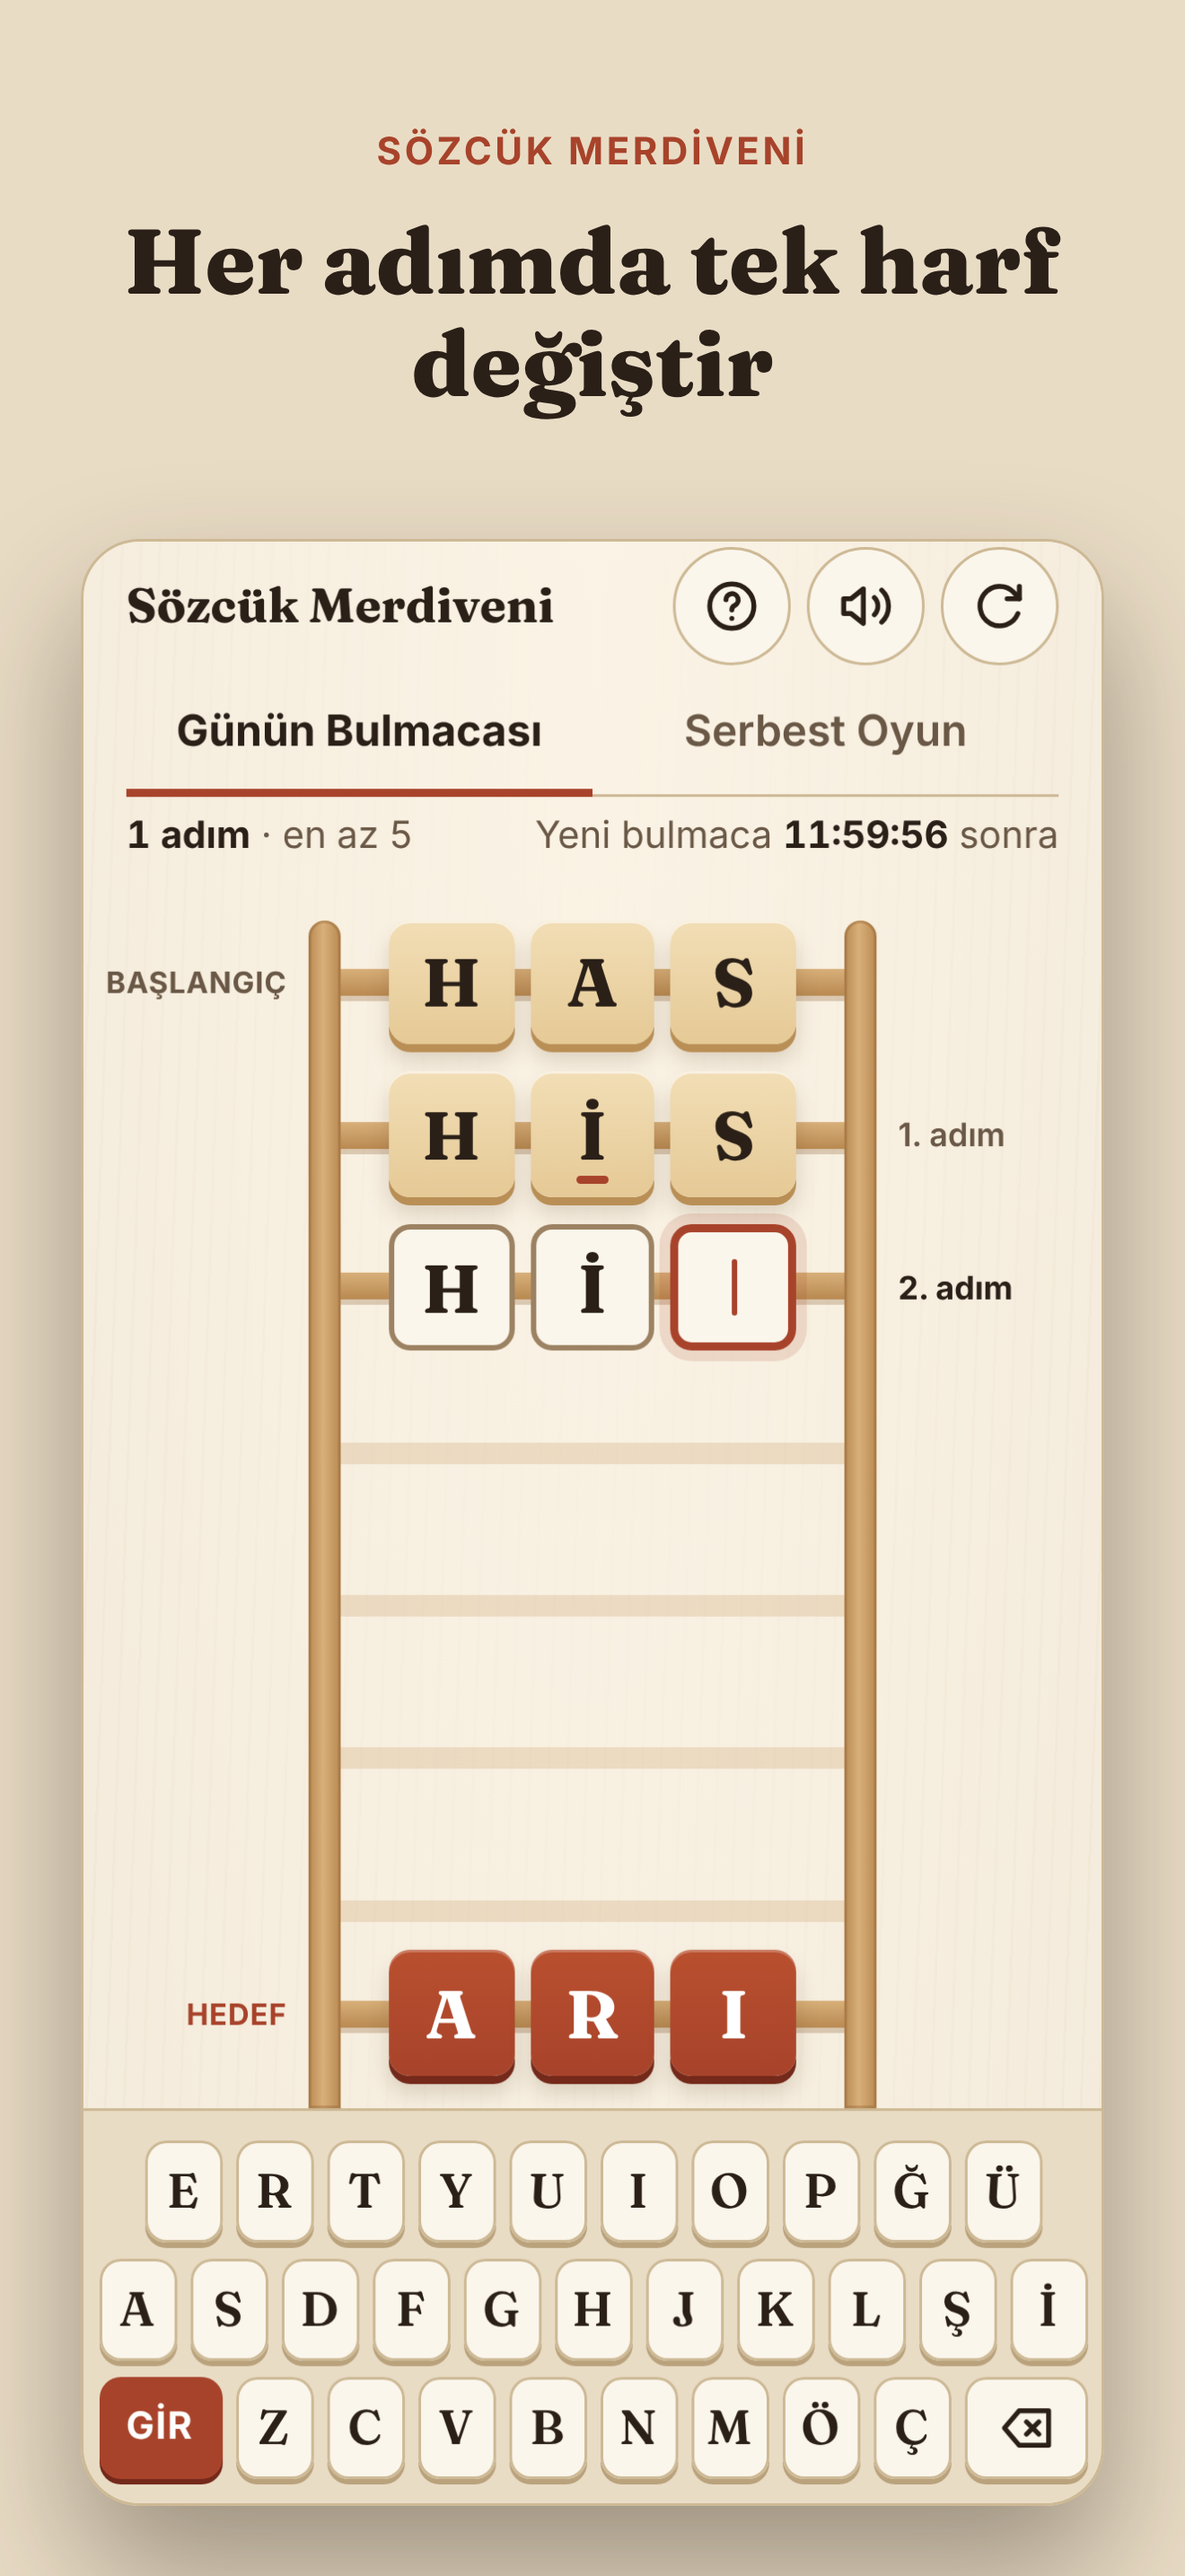
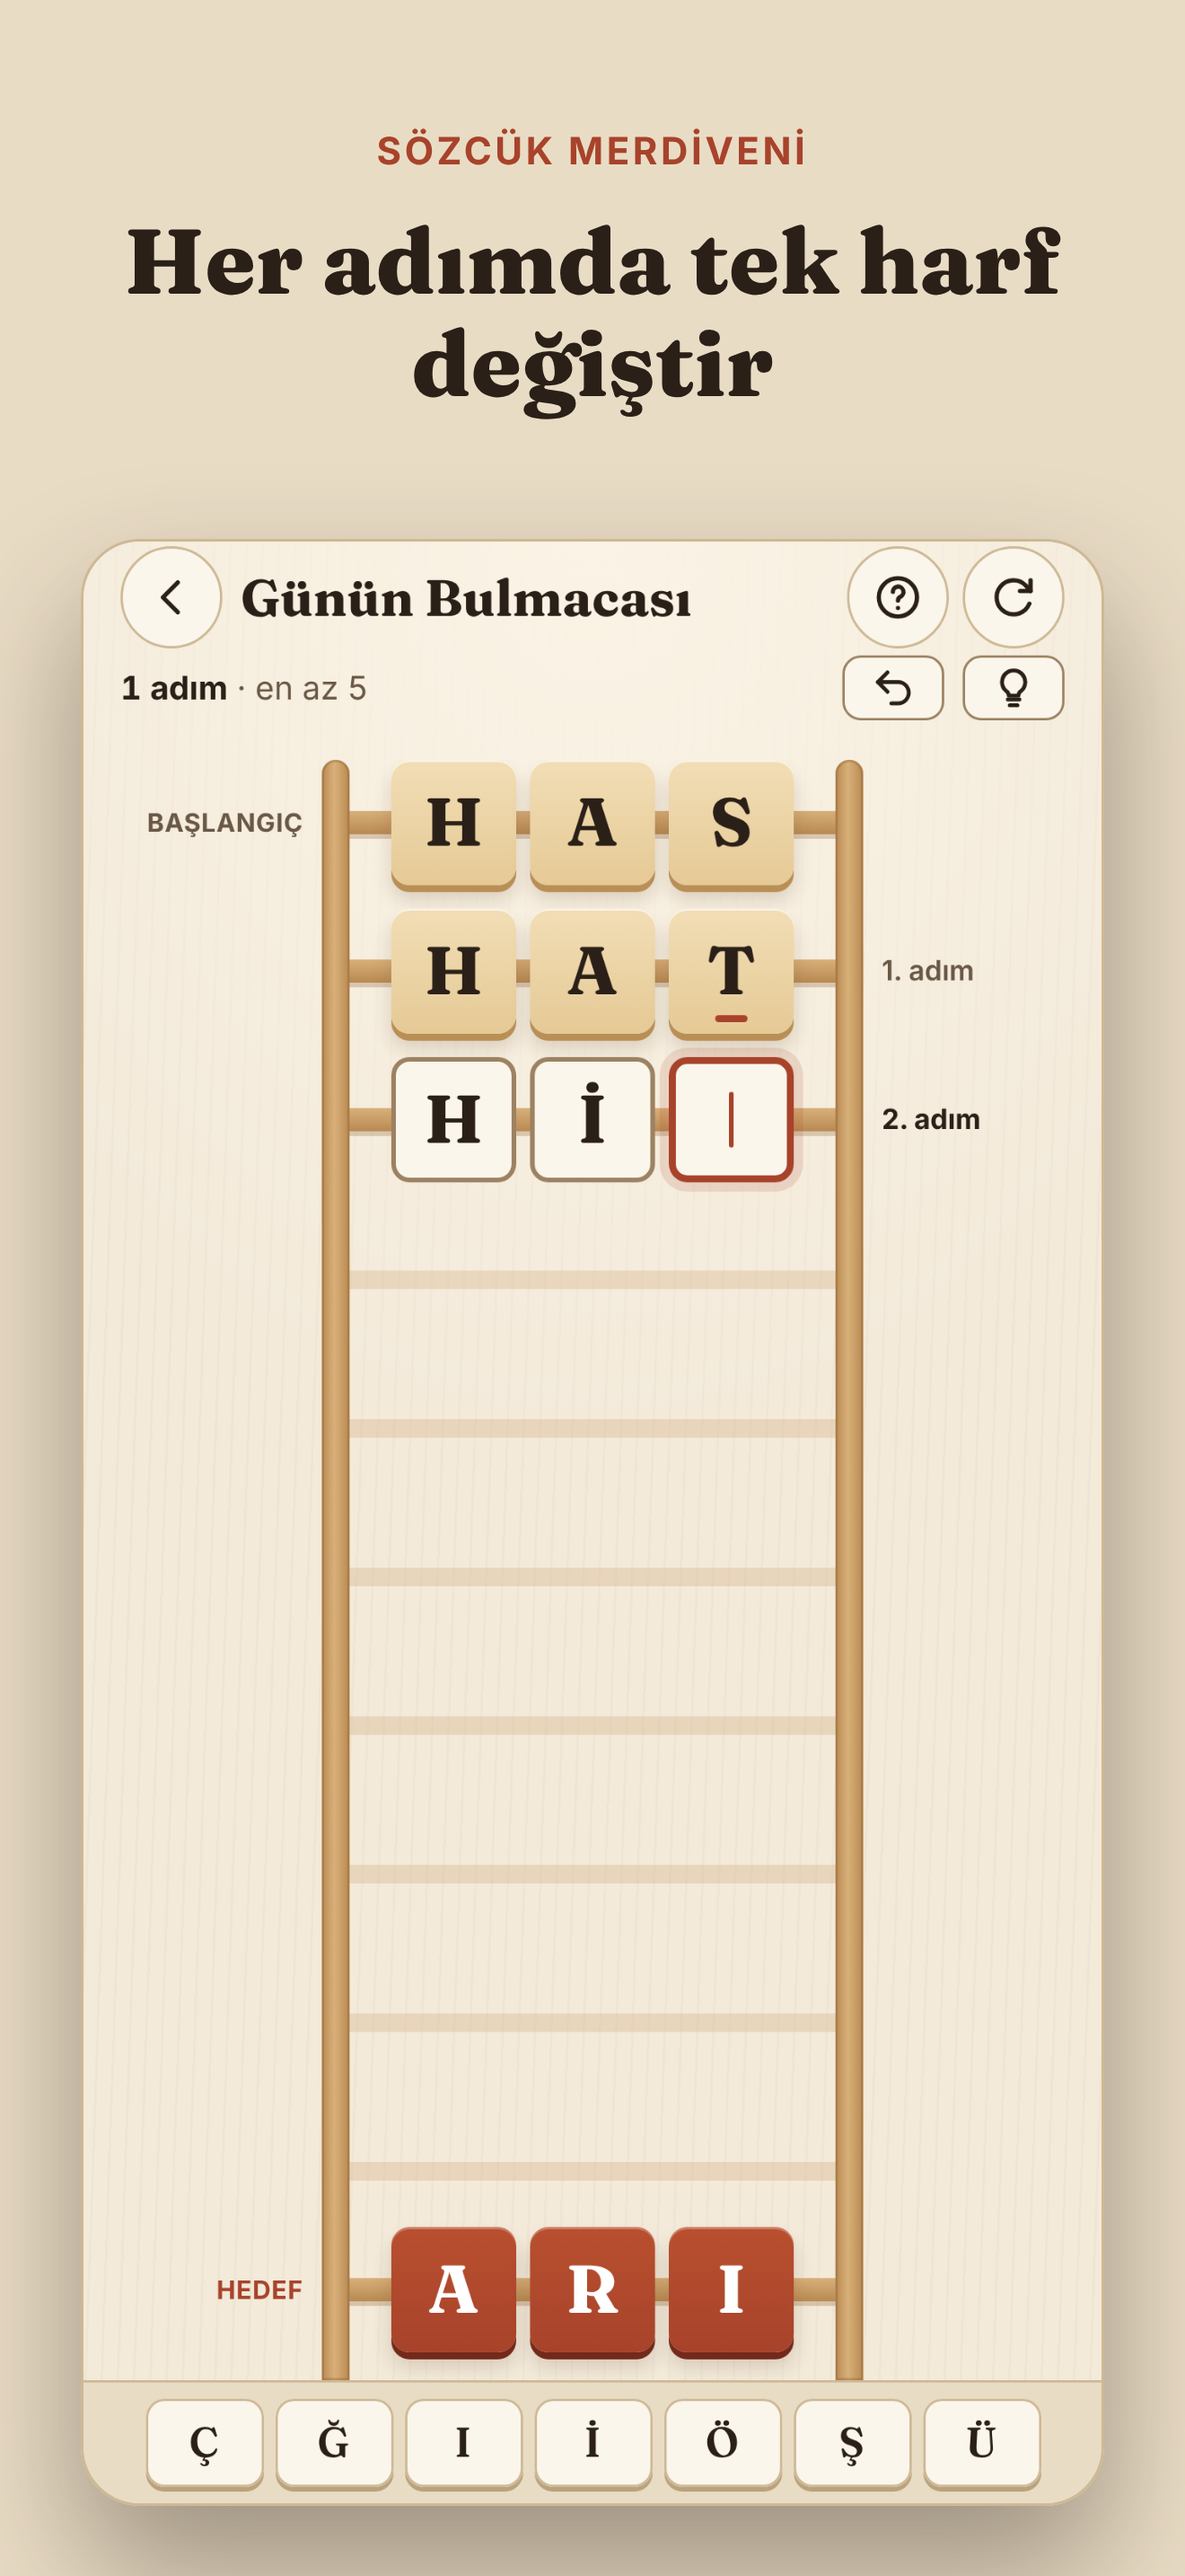
Mağaza görselleri: uygulama paketinden, yeni arayüzle
Üretici artık siteyi değil iOS deposunun www/ paketini sunar (ana ekran,
telefonun klavyesi, harf şeridi, Geri al / Sonucu göster). Oyun 6,9" iPhone'un
içerik alanında (440×845) oynanır. Beş ekran: ana ekran, hamle, çözüm,
sonucu göster onayı, nasıl oynanır. Linux önizlemesi; nihai sürüm macOS'ta.

Claude-Session: https://claude.ai/code/session_01C8YUUMVct3zA5wzCZ8y5j3

Changed region(s): [[0.0621, 0.2172, 0.9318, 0.993], [0.8076, 0.4965, 0.8386, 0.5275], [0.7765, 0.3724, 0.8076, 0.4034]]

diff --git a/tools/magaza_gorsel.js b/tools/magaza_gorsel.js
@@ -2,14 +2,22 @@
 /* =========================================================
  * Sözcük Merdiveni — App Store ekran görüntüsü üretici
  * ---------------------------------------------------------
- * Gerçek oyunu telefon boyutunda açar, ekran klavyesine dokunarak oynar ve her
- * ekranın üstüne kısa bir başlık bandı koyar. Sahte ekran çizilmez: görünen
- * her şey sitenin kendi index.html / app.js / style.css dosyalarıdır.
- * Bant da renk ve yazıyı style.css belirteçlerinden alır.
+ * UYGULAMA paketini (iOS deposunun www/ klasörü: site + uygulama arayüzü)
+ * telefon boyutunda açar, oyuncunun yolundan oynar ve her ekranın üstüne kısa
+ * bir başlık bandı koyar. Sahte ekran çizilmez: görünen her şey paketin kendi
+ * dosyalarıdır. Uygulama arayüzü (ana ekran, telefonun klavyesi, harf şeridi)
+ * siteden farklı olduğu için site değil paket kullanılır.
+ * Bant renk ve yazıyı style.css belirteçlerinden alır.
+ *
+ * Paketi önce iOS deposunda üretin:
+ *   cd ../sozcuk-merdiveni-ios && SITE_DEPOSU=<bu depo> npm run esitle
+ * Paket başka yerdeyse: UYGULAMA_WWW=/yol/www node tools/magaza_gorsel.js
  *
  * Çıktı: tools/uygulama/magaza/NN-ad.png — 1320×2868 (App Store 6,9").
- * Reklam yer tutucuları gizlenir. Saat sabitlenir; aynı tarih aynı görseli
- * verir. Playwright depoya değil, çalıştıran makineye kuruludur
+ * Klasördeki eski PNG'ler silinir. Saat sabitlenir; aynı tarih aynı görseli
+ * verir. Capacitor köprüsü yoktur: Plus kartı ve reklam görünmez, iOS
+ * klavyesi çizilmez (oyun ekranları klavye kapalıyken alınır).
+ * Playwright depoya değil, çalıştıran makineye kuruludur
  * (tools/test_tarayici.js ile aynı düzen).
  *
  * Kullanım:  node tools/magaza_gorsel.js [YYYY-AA-GG]
@@ -19,43 +27,79 @@
  * ========================================================= */
 "use strict";
 
-const { spawn } = require("child_process");
 const fs = require("fs");
 const http = require("http");
 const path = require("path");
 const { chromium } = require("playwright");
 
 const KOK = path.resolve(__dirname, "..");
+const WWW = path.resolve(process.env.UYGULAMA_WWW || path.join(KOK, "..", "sozcuk-merdiveni-ios", "www"));
 const CIKTI = path.join(__dirname, "uygulama", "magaza");
-const PORT = 8767;                       // 8765 önizleme, 8766 duman testi
-const ADRES = `http://127.0.0.1:${PORT}/`;
 const TARIH = process.argv[2] || "2026-11-13";
+const TUR = { ".html": "text/html; charset=utf-8", ".js": "text/javascript", ".css": "text/css",
+              ".json": "application/json", ".woff2": "font/woff2" };
+let ADRES;                               // yerel sunucu açılınca dolar
 
 // 440×956 CSS px × 3 = 1320×2868
 const OLCEK = 3;
 const TUVAL = { width: 440, height: 956 };
-const OYUN = { width: 380, height: 730 };   // bandın altına gömülen oyun ekranı
+// Oyun 6,9" iPhone'un içerik alanında (440×956 eksi durum çubuğu ve ana ekran çubuğu)
+// oynanır, banda sığsın diye küçültülerek gömülür
+const OYUN = { width: 440, height: 845 };
+const GOMME = { width: 380, height: 730 };
 
-// Başlıklar yalnızca oyunun gerçekten yaptığını söyler; abartı, sayı, ödül yok.
+// Başlıklar yalnızca uygulamanın gerçekten yaptığını söyler; abartı, sayı, ödül yok.
 const EKRANLAR = [
-  ["01-gunun-bulmacasi", "Her gün yeni bir bulmaca"],
+  ["01-ana-ekran", "Günün bulmacası ya da serbest oyun"],
   ["02-hamle", "Her adımda tek harf değiştir"],
   ["03-cozum", "Hedefe ulaş, sonucunu paylaş"],
-  ["04-serbest-oyun", "Zorluğu ve uzunluğu sen seç"],
+  ["04-geri-al", "Takılırsan geri al ya da yolu gör"],
+  ["05-nasil-oynanir", "Kurallar tek ekranda"],
 ];
 
-function sunucuBekle(kalan = 50) {
-  return new Promise((coz, reddet) => {
-    http.get(ADRES + "words.json", (yanit) => { yanit.resume(); coz(); })
-      .on("error", () => kalan ? setTimeout(() => sunucuBekle(kalan - 1).then(coz, reddet), 100)
-                               : reddet(new Error("yerel sunucu açılmadı")));
+/* Paketi sunan yerel sunucu; klasör dışına çıkmaz. Mağaza şablonu da buradan verilir. */
+function sunucuAc(sablonlar) {
+  const sunucu = http.createServer((istek, yanit) => {
+    const ad = decodeURIComponent(new URL(istek.url, "http://x").pathname);
+    if (sablonlar.has(ad)) return yanit.writeHead(200, { "Content-Type": TUR[".html"] }).end(sablonlar.get(ad));
+    const yol = path.resolve(WWW, "." + ad.replace(/\/$/, "/index.html"));
+    try {
+      if (!yol.startsWith(WWW + path.sep)) throw new Error("dışarı çıkma");
+      yanit.writeHead(200, { "Content-Type": TUR[path.extname(yol)] || "application/octet-stream" }).end(fs.readFileSync(yol));
+    } catch (_) { yanit.writeHead(404).end(); }
   });
+  return new Promise((coz) => sunucu.listen(0, "127.0.0.1", () => {
+    ADRES = `http://127.0.0.1:${sunucu.address().port}/`;
+    coz(sunucu);
+  }));
 }
 
 const disAgiKapat = (baglam) => baglam.route("**/*", (istek) =>
   istek.request().url().startsWith(ADRES) ? istek.continue() : istek.abort());
 
-/* Oyunu oynar; her ekran için PNG tamponu döndürür. */
+/* Oyunun kendi sözlüğüyle hedefe uzaklıklar (genişlik öncelikli arama, hedeften geriye). */
+const uzakliklar = (sayfa) => sayfa.evaluate(() => {
+  const sozluk = new Set(oyun.db[String(oyun.startWord.length)].words);
+  const ALFABE = "ABCÇDEFGĞHIİJKLMNOÖPRSŞTUÜVYZ";
+  const uzak = { [oyun.targetWord]: 0 };
+  const kuyruk = [oyun.targetWord];
+  while (kuyruk.length) {
+    const u = kuyruk.shift();
+    for (let i = 0; i < u.length; i++) for (const h of ALFABE) {
+      const v = u.slice(0, i) + h + u.slice(i + 1);
+      if (sozluk.has(v) && !(v in uzak)) { uzak[v] = uzak[u] + 1; kuyruk.push(v); }
+    }
+  }
+  return uzak;
+});
+// Elle onaylı yaygın kelimeler önce gelir: görselde oyuncunun tanıdığı basamaklar görünsün
+const YAYGIN = new Set(fs.readFileSync(path.join(__dirname, "kelimeler.txt"), "utf8")
+  .split("\n").map((s) => s.trim()).filter((s) => s && !s.startsWith("#")));
+const komsular = (k, uzak) => Object.keys(uzak)
+  .filter((v) => [...v].filter((h, i) => h !== k[i]).length === 1)
+  .sort((a, b) => YAYGIN.has(b) - YAYGIN.has(a));
+
+/* Paketi oynar; her ekran için PNG tamponu döndürür. */
 async function oyunEkranlari(tarayici) {
   const baglam = await tarayici.newContext({
     viewport: OYUN, deviceScaleFactor: OLCEK, hasTouch: true, isMobile: true, locale: "tr-TR",
@@ -72,48 +116,63 @@ async function oyunEkranlari(tarayici) {
   await sayfa.clock.install({ time: new Date(`${TARIH}T09:00:00Z`) });   // TRT 12:00
   await sayfa.goto(ADRES);
   await sayfa.waitForFunction(() => window.oyun && window.oyun.db && window.oyun.startWord, null, { timeout: 10000 });
-  await sayfa.addStyleTag({ content: ".ad-container { display: none !important; }" });
 
   // Geçiş animasyonları gerçek saatle, oyunun zamanlayıcıları sahte saatle ilerler
-  const cek = async () => { await sayfa.clock.runFor(1000); await sayfa.waitForTimeout(500); return sayfa.screenshot(); };
-  const tus = (ad) => sayfa.tap(`#keyboard .key[data-key="${ad}"]`);
-  const yaz = async (metin) => { for (const harf of metin) await tus(harf); };
-
-  // En kısa çözüm — oyunun kendi sözlüğüyle (genişlik öncelikli arama)
-  const yol = await sayfa.evaluate(() => {
-    const sozluk = new Set(oyun.db[String(oyun.startWord.length)].words);
-    const ALFABE = "ABCÇDEFGĞHIİJKLMNOÖPRSŞTUÜVYZ";
-    const once = new Map([[oyun.startWord, null]]);
-    const kuyruk = [oyun.startWord];
-    while (kuyruk.length) {
-      const u = kuyruk.shift();
-      if (u === oyun.targetWord) break;
-      for (let i = 0; i < u.length; i++) for (const h of ALFABE) {
-        const v = u.slice(0, i) + h + u.slice(i + 1);
-        if (sozluk.has(v) && !once.has(v)) { once.set(v, u); kuyruk.push(v); }
-      }
-    }
-    const adimlar = [];
-    for (let k = oyun.targetWord; k !== oyun.startWord; k = once.get(k)) adimlar.unshift(k);
-    return adimlar;
-  });
-  if (yol.length < 2) throw new Error(`${TARIH} bulmacası ${yol.length} adımlı; "hamle" ekranı için başka tarih verin`);
+  const ilerle = async () => { await sayfa.clock.runFor(1500); await sayfa.waitForTimeout(500); };
+  const cek = async () => { await ilerle(); return sayfa.screenshot(); };
+  const ekranBekle = (ad) => sayfa.waitForFunction((a) => document.body.dataset.ekran === a, ad, { timeout: 5000 });
+  // Oyuncu telefonun klavyesiyle küçük harf yazar; uygulama Türkçe kuralla büyütür
+  const yaz = (metin) => sayfa.keyboard.type(metin.toLocaleLowerCase("tr-TR"));
+  const gonder = async (kelime) => { await yaz(kelime); await sayfa.keyboard.press("Enter"); await ilerle(); };
+  const zincir = () => sayfa.evaluate(() => oyun.chain.slice());
 
   const goruntuler = [];
-  goruntuler.push(await cek());                          // 1: günün bulmacası
+  await sayfa.clock.runFor(1500);                         // açılış ekranı geçer
+  await ekranBekle("ana");
+  goruntuler.push(await cek());                          // 1: ana ekran
 
-  await yaz(yol[0]); await tus("ENTER");                 // 2: ilk hamle + yarım kelime
-  await yaz(yol[1].slice(0, -1));
+  await sayfa.tap("#btnGunluk");                          // 2: günün bulmacası, ilk hamle + yarım kelime
+  await ekranBekle("oyun");
+  let uzak = await uzakliklar(sayfa);
+  const sonraki = (k) => komsular(k, uzak).find((v) => uzak[v] === uzak[k] - 1);
+  let k = (await zincir()).at(-1);
+  if (uzak[k] < 3) throw new Error(`${TARIH} bulmacası ${uzak[k]} adımlı; "hamle" ekranı için başka tarih verin`);
+  await gonder((k = sonraki(k)));
+  await yaz(sonraki(k).slice(0, -1));
   goruntuler.push(await cek());
 
-  await yaz(yol[1].slice(-1)); await tus("ENTER");       // 3: çözüm
-  for (const kelime of yol.slice(2)) { await yaz(kelime); await tus("ENTER"); }
-  await sayfa.clock.runFor(1000);
+  await yaz(sonraki(k).slice(-1)); await sayfa.keyboard.press("Enter"); await ilerle();   // 3: çözüm
+  for (k = sonraki(k); uzak[k] > 0;) await gonder((k = sonraki(k)));
   await sayfa.waitForFunction(() => !document.getElementById("modal").classList.contains("hidden"), null, { timeout: 5000 });
   goruntuler.push(await cek());
 
-  await sayfa.tap("#btnCloseModal");                     // 4: serbest oyun
-  await sayfa.tap("#tabFree");
+  // 4: serbest oyun; hedefe yaklaşmayan hamlelerle en kısa yolu aşınca "Sonucu göster" belirir
+  await sayfa.tap("#btnCloseModal");
+  await ilerle();
+  await sayfa.tap("#btnAna");
+  await ekranBekle("ana");
+  await sayfa.tap("#btnSerbest");
+  await ekranBekle("oyun");
+  uzak = await uzakliklar(sayfa);
+  const enAz = await sayfa.evaluate(() => oyun.optimal);
+  for (let i = 0; i <= enAz; i++) {
+    const z = await zincir();
+    const son = z.at(-1);
+    const v = komsular(son, uzak).find((w) => !z.includes(w) && uzak[w] >= uzak[son] && uzak[w] > 0);
+    if (!v) throw new Error("serbest oyunda dolambaçlı yol bulunamadı; başka tarih verin");
+    await gonder(v);
+  }
+  if (!(await sayfa.isVisible("#btnShowResult"))) throw new Error("Sonucu göster düğmesi görünmedi");
+  await sayfa.tap("#btnShowResult");
+  await sayfa.waitForFunction(() => !document.getElementById("pes").classList.contains("hidden"), null, { timeout: 5000 });
+  goruntuler.push(await cek());
+
+  await sayfa.tap("#btnPesVazgec");                       // 5: nasıl oynanır (ana ekrandan)
+  await ilerle();
+  await sayfa.tap("#btnAna");
+  await ekranBekle("ana");
+  await sayfa.tap("#btnAnaYardim");
+  await sayfa.waitForFunction(() => document.body.classList.contains("yardim"), null, { timeout: 5000 });
   goruntuler.push(await cek());
 
   if (sayfaHatalari.length) throw new Error("sayfada hata: " + sayfaHatalari.join(" | "));
@@ -128,13 +187,13 @@ function sablon(baslik, png) {
 <style>
   body { width: ${TUVAL.width}px; height: ${TUVAL.height}px; overflow: hidden;
          background: var(--surface-2); }
-  .bant { height: ${TUVAL.height - OYUN.height - 26}px; padding: 0 var(--space-6);
+  .bant { height: ${TUVAL.height - GOMME.height - 26}px; padding: 0 var(--space-6);
           display: flex; flex-direction: column; align-items: center; justify-content: center;
           gap: var(--space-3); text-align: center; }
   .marka { color: var(--accent); font-size: var(--fs-sm); font-weight: var(--fw-bold);
            letter-spacing: var(--track-lg); }
   h1 { font-family: var(--font-display); font-size: var(--fs-3xl); font-weight: var(--fw-heavy); line-height: var(--lh-tight); }
-  img { display: block; width: ${OYUN.width}px; height: ${OYUN.height}px; margin: 0 auto;
+  img { display: block; width: ${GOMME.width}px; height: ${GOMME.height}px; margin: 0 auto;
         border: 1.5px solid var(--border); border-radius: var(--radius-lg); box-shadow: var(--shadow-md); }
 </style></head><body>
 <div class="bant"><span class="marka">SÖZCÜK MERDİVENİ</span><h1></h1></div>
@@ -144,11 +203,15 @@ function sablon(baslik, png) {
 }
 
 async function main() {
-  const sunucu = spawn("python3", ["-m", "http.server", String(PORT), "--bind", "127.0.0.1"],
-                       { cwd: KOK, stdio: "ignore" });
+  // Uygulama paketi mi? (sitenin index.html'i uygulama.js yüklemez)
+  const html = fs.existsSync(path.join(WWW, "index.html")) ? fs.readFileSync(path.join(WWW, "index.html"), "utf8") : "";
+  if (!html.includes('src="uygulama.js"')) {
+    throw new Error(`${WWW} uygulama paketi değil. iOS deposunda: SITE_DEPOSU=${KOK} npm run esitle`);
+  }
+  const sablonlar = new Map();
+  const sunucu = await sunucuAc(sablonlar);
   let tarayici;
   try {
-    await sunucuBekle();
     tarayici = await chromium.launch();
     const goruntuler = await oyunEkranlari(tarayici);
 
@@ -156,13 +219,12 @@ async function main() {
     await disAgiKapat(baglam);
     const sayfa = await baglam.newPage();
     fs.mkdirSync(CIKTI, { recursive: true });
+    for (const eski of fs.readdirSync(CIKTI)) if (eski.endsWith(".png")) fs.unlinkSync(path.join(CIKTI, eski));
     for (const [i, [ad, baslik]] of EKRANLAR.entries()) {
-      // Belge yerel sunucudan açılır ki style.css aynı kaynaktan yüklensin
-      await sayfa.route(ADRES + "magaza-sablon", (istek) =>
-        istek.fulfill({ contentType: "text/html; charset=utf-8", body: sablon(baslik, goruntuler[i]) }));
+      // Şablon yerel sunucudan açılır ki style.css aynı kaynaktan yüklensin
+      sablonlar.set("/magaza-sablon", sablon(baslik, goruntuler[i]));
       await sayfa.goto(ADRES + "magaza-sablon", { waitUntil: "load" });
       await sayfa.evaluate(() => document.fonts.ready);
-      await sayfa.unroute(ADRES + "magaza-sablon");
       const dosya = path.join(CIKTI, ad + ".png");
       await sayfa.screenshot({ path: dosya });
       // Öz denetim: PNG başlığındaki ölçü mağazanın istediği ölçü mü
@@ -175,7 +237,7 @@ async function main() {
     }
   } finally {
     if (tarayici) await tarayici.close();
-    sunucu.kill();
+    sunucu.close();
   }
 }
 
